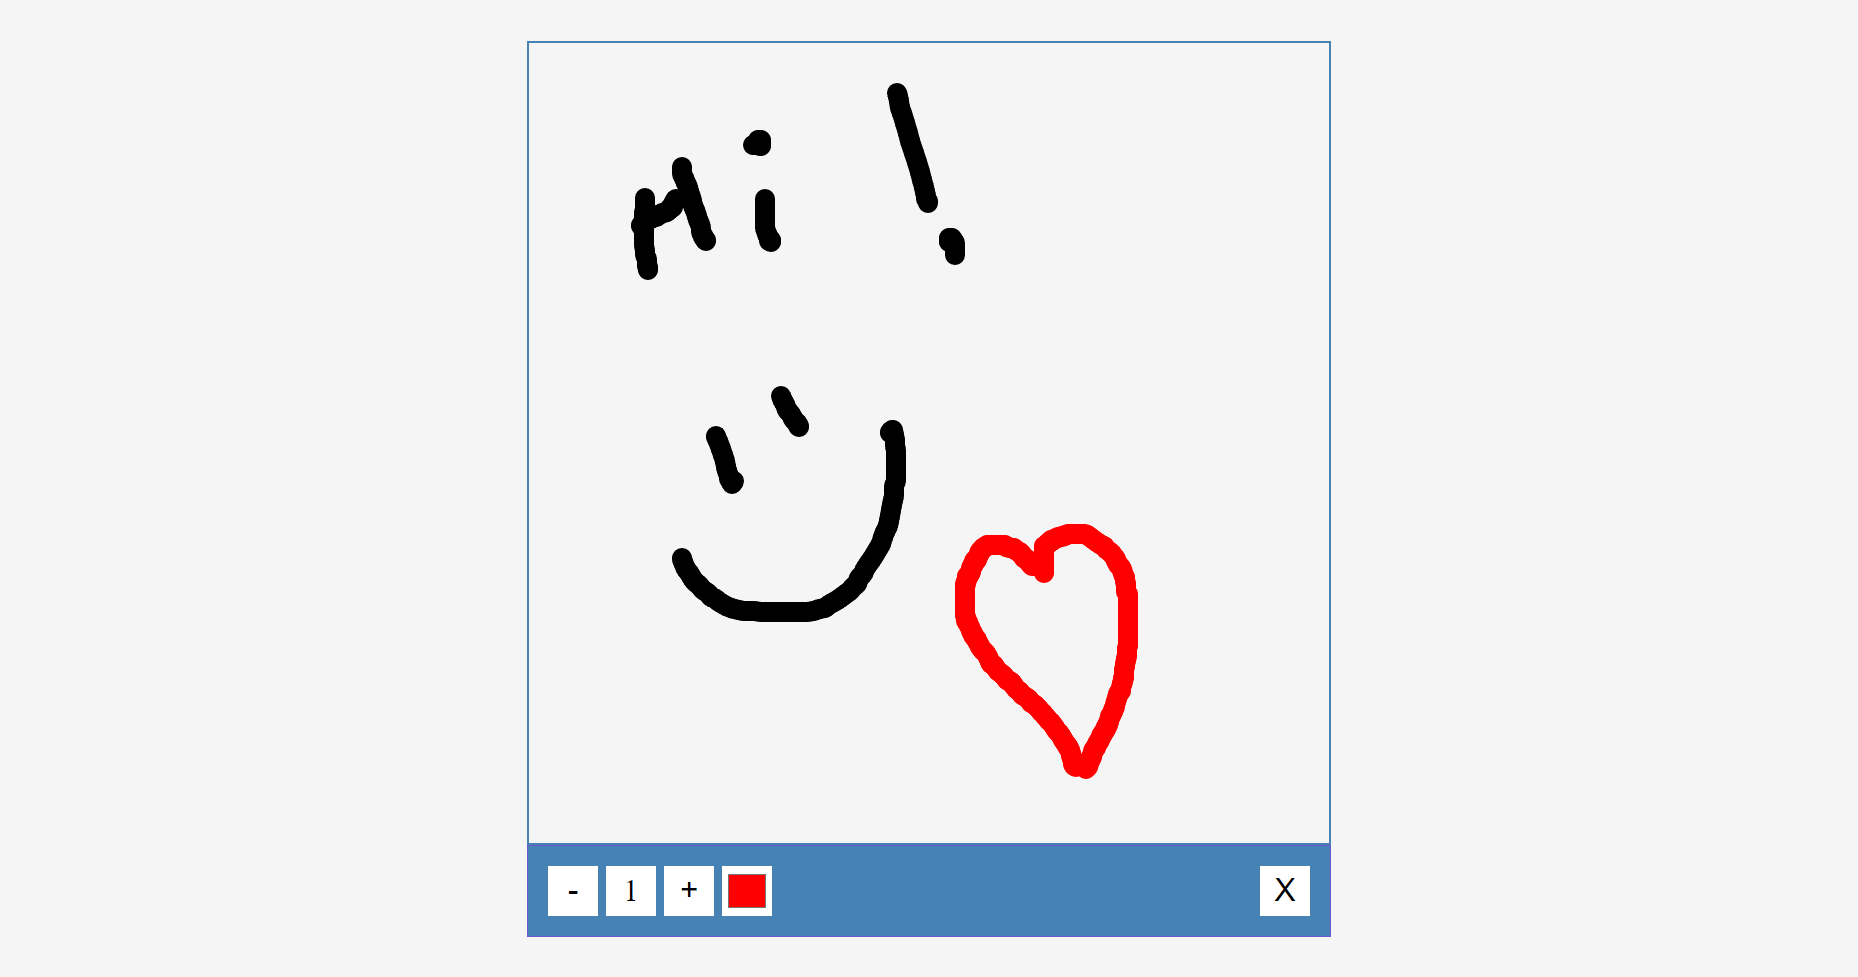
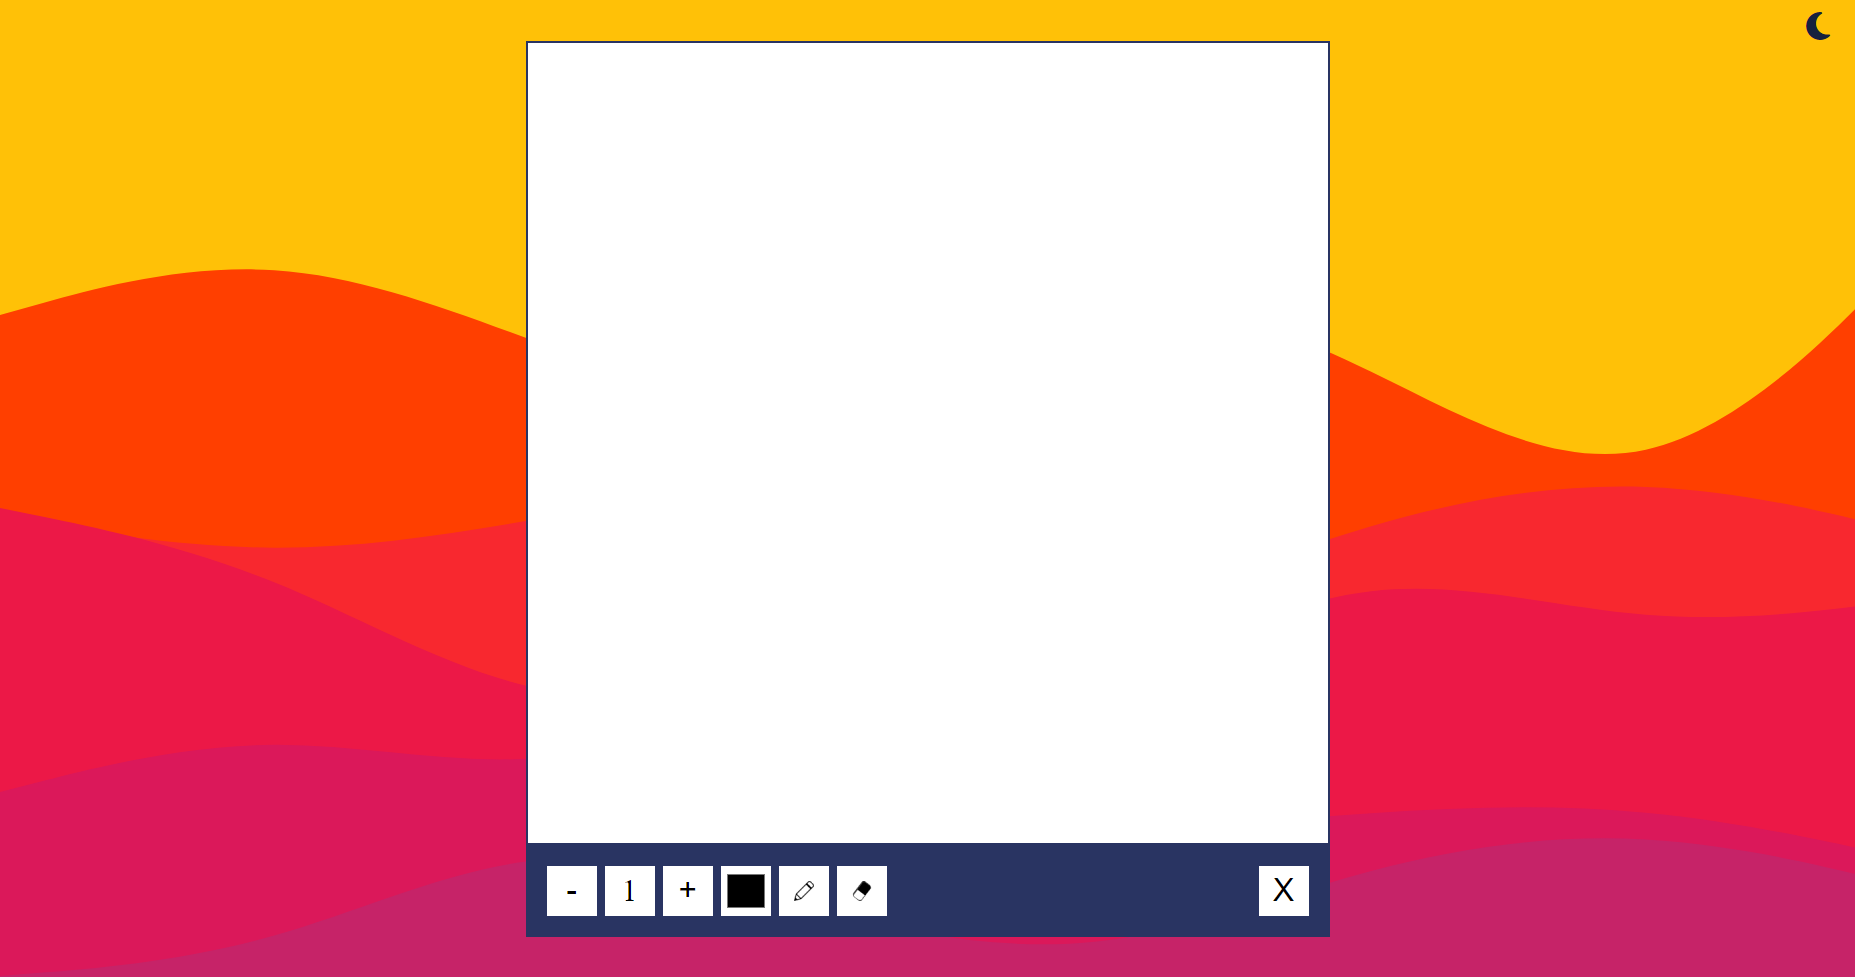
dark/light mode update and readme issues :S

diff --git a/script.js b/script.js
@@ -138,12 +138,12 @@ darkMode.addEventListener("click", () => {
   lightMode.classList.remove("mode-active");
   lightMode.classList.add("rotate");
   darkMode.classList.remove("rotate");
-  toolbox.style.backgroundColor = "#7A0BC0";
+  toolbox.style.backgroundColor = "#293462";
   document.body.style.backgroundImage = "url('darkModeBackgorund.svg')";
-  document.body.style.backgroundRepeat = "no-repeat";
+
   document.body.style.backgroundSize = "1920px 1080px";
-  canvas.style.borderColor = "#3F0071";
-  toolbox.style.borderColor = "#3F0071";
+  canvas.style.borderColor = "#293462";
+  toolbox.style.borderColor = "#293462";
 });
 
 lightMode.addEventListener("click", () => {
@@ -151,10 +151,10 @@ lightMode.addEventListener("click", () => {
   darkMode.classList.remove("mode-active");
   darkMode.classList.add("rotate");
   lightMode.classList.remove("rotate");
-  toolbox.style.backgroundColor = "steelblue";
+  toolbox.style.backgroundColor = "#293462";
   document.body.style.backgroundImage = "url('lightModeBackgorund.svg')";
-  document.body.style.backgroundRepeat = "no-repeat";
+
   document.body.style.backgroundSize = "1920px 1080px";
-  canvas.style.borderColor = "steelblue";
-  toolbox.style.borderColor = "steelblue";
+  canvas.style.borderColor = "#293462";
+  toolbox.style.borderColor = "#293462";
 });

diff --git a/style.css b/style.css
@@ -11,7 +11,12 @@ body {
   height: 100vh;
   margin: 0;
   position: relative;
-  pointer-events: none;
+}
+::selection {
+  background: transparent;
+}
+::-moz-selection {
+  background: transparent;
 }
 .mode {
   display: flex;
@@ -25,18 +30,18 @@ body {
 }
 
 .dark-mode {
-  color: #001220;
+  color: #16213e;
 }
 
 canvas {
-  border: 2px solid #b8e8fc;
+  border: 2px solid #293462;
   cursor: url("pencilCursor.png") 2 48, pointer;
   background-color: #fff;
 }
 
 .toolbox {
-  background-color: #b8e8fc;
-  border: 1px solid #b8e8fc;
+  background-color: #293462;
+  border: 1px solid #293462;
   display: flex;
   width: 804px;
   padding: 1rem;

diff --git a/README.md b/README.md
@@ -15,8 +15,8 @@ Klonlama işleminin ardından live server açarak kodu önizleyebilirsiniz.
 ## Ekran Görüntüleri
 
 <div>
-<img src="https://github.com/ahmetenesbahar/login-register-page/blob/main/assets/screenshots/drawingApp.png">
-<img src="https://github.com/ahmetenesbahar/login-register-page/blob/main/assets/screenshots/drawingApp1.png">
+<img src="https://github.com/ahmetenesbahar/drawing-app/blob/main/assets/screenshots/drawingApp.png">
+<img src="https://github.com/ahmetenesbahar/drawing-app/blob/main/assets/screenshots/drawingApp1.png">
 
 </div>
 
